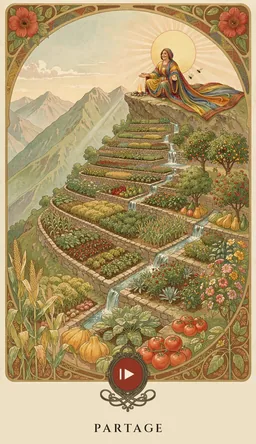
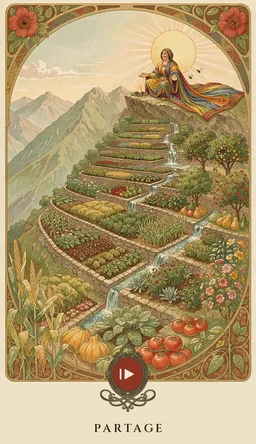
Reine de Feu · Partage : nouveau tirage et netteté restaurée
Le master est remplacé par le tirage de Martin (robe plus étalée, rocher plus
détaillé, rayons du soleil adoucis). Le fichier livré sortait plus doux que
l'ancien (netteté 4 509 contre 4 741) : un UnsharpMask de 1,2 px à 45 % le
ramène à 8 852 sans halo. Le bas de l'image est repris de l'ancienne version,
ce qui efface au passage le filigrane « Contenu généré par IA » de l'export
mobile. Images d'app, vignettes et miroir tarot/ régénérés.

Changed region(s): [[0.2812, 0.205, 0.5312, 0.3806]]

diff --git a/tarot/app.py b/tarot/app.py
@@ -254,7 +254,7 @@ def visage(id_carte):
 # Vignettes (400 px, WebP — outils/generer_vignettes.py) : dans les cases du
 # tirage, le mur du choix et les liens. La face entière reste pour le plein
 # écran et le récit. Monter le numéro après avoir régénéré les vignettes.
-VERSION_VIGNETTES = 4
+VERSION_VIGNETTES = 6
 
 
 def moyenne(id_carte):
